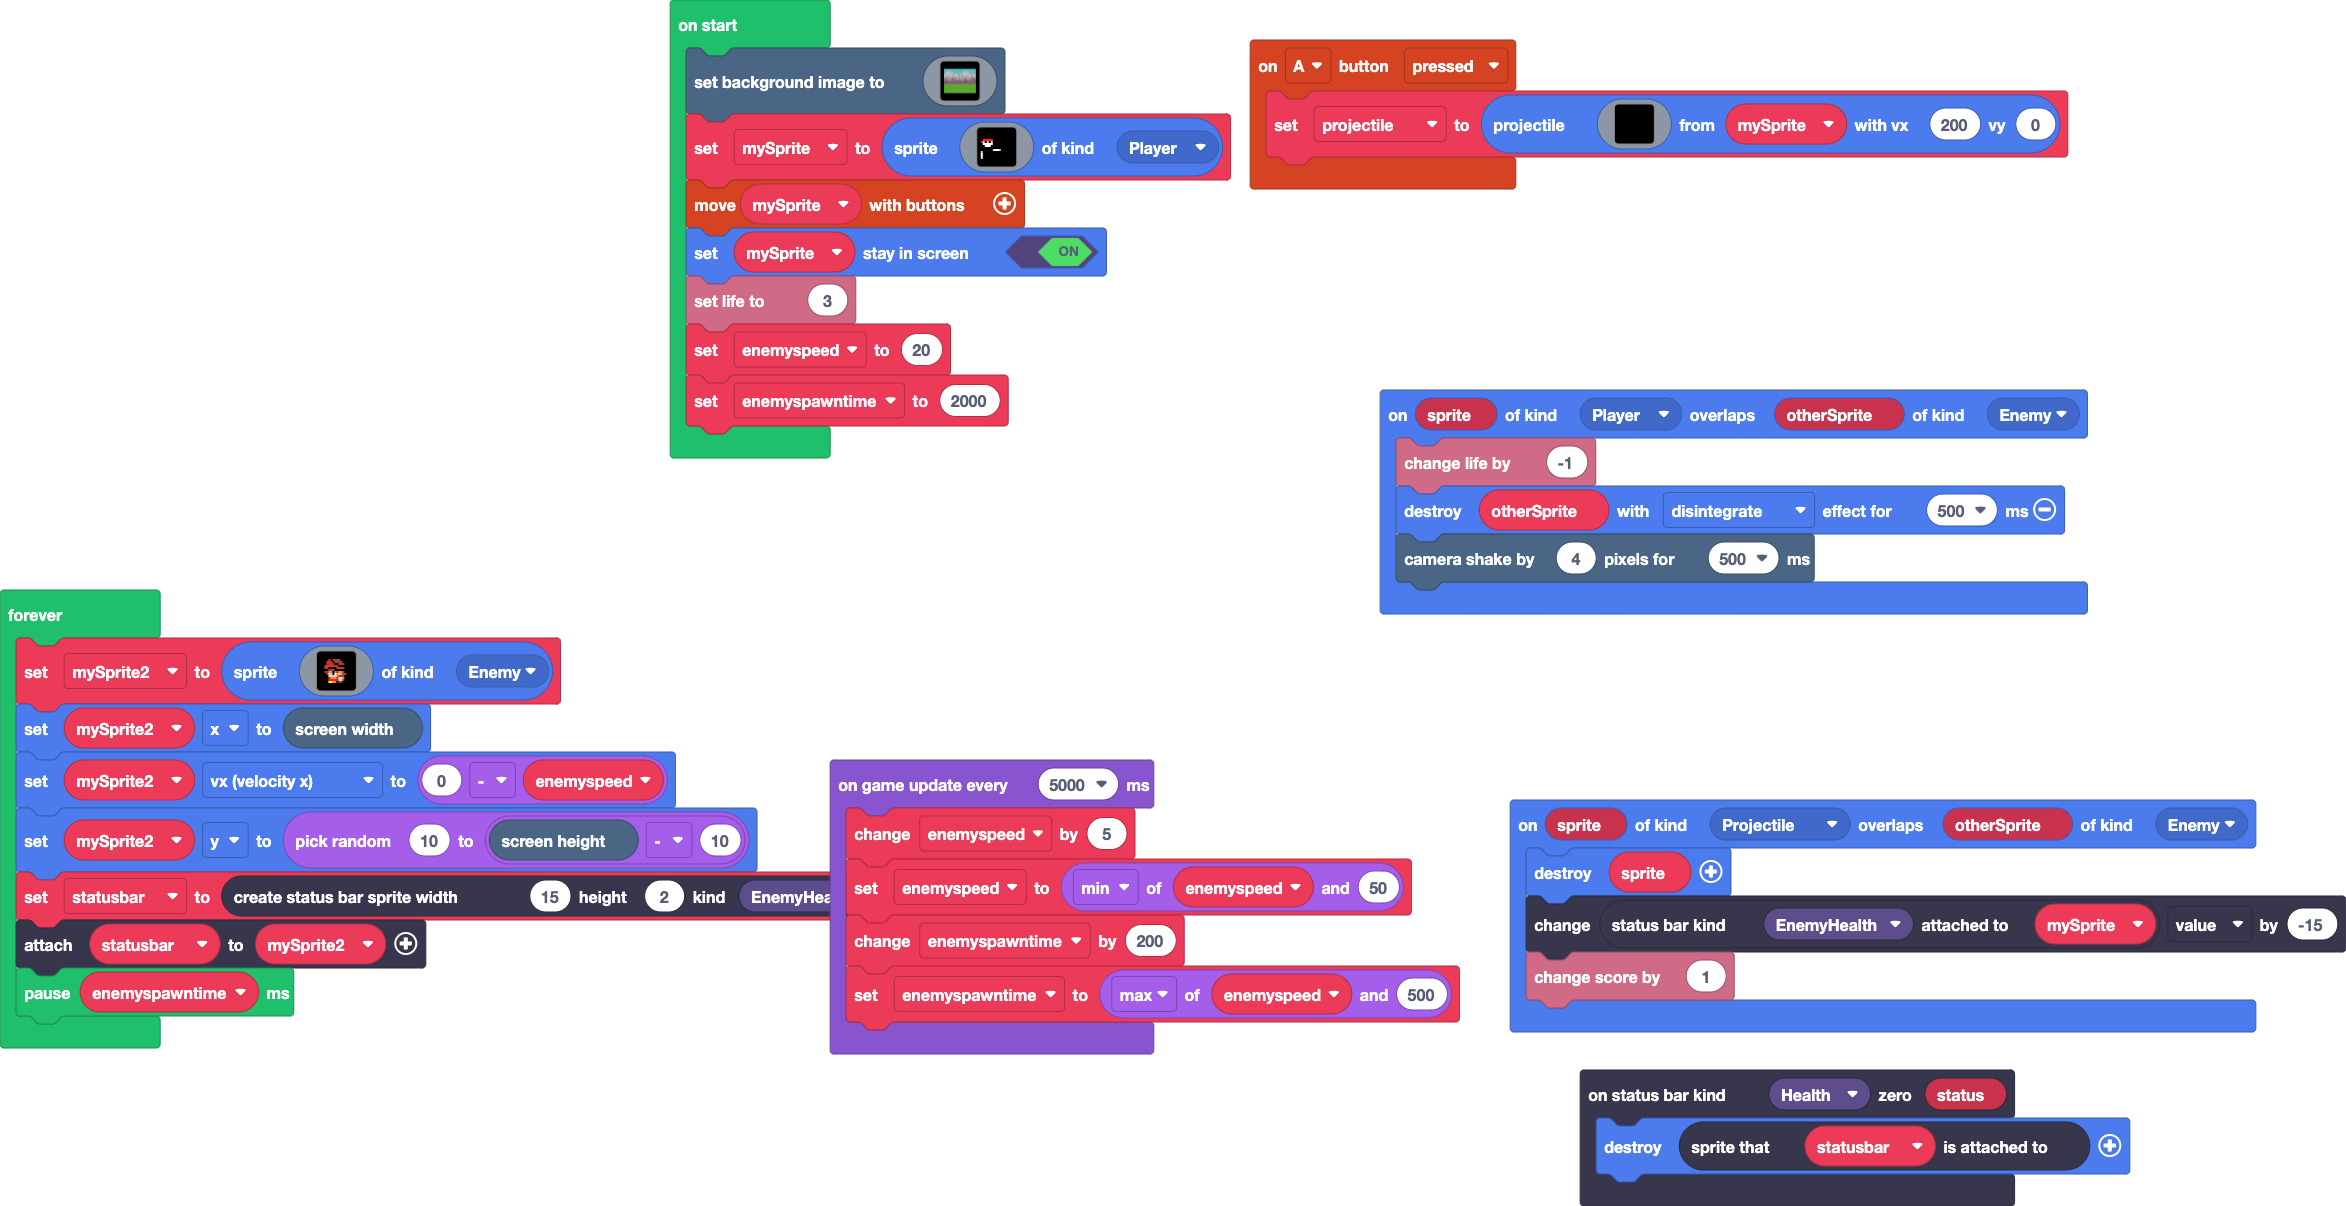
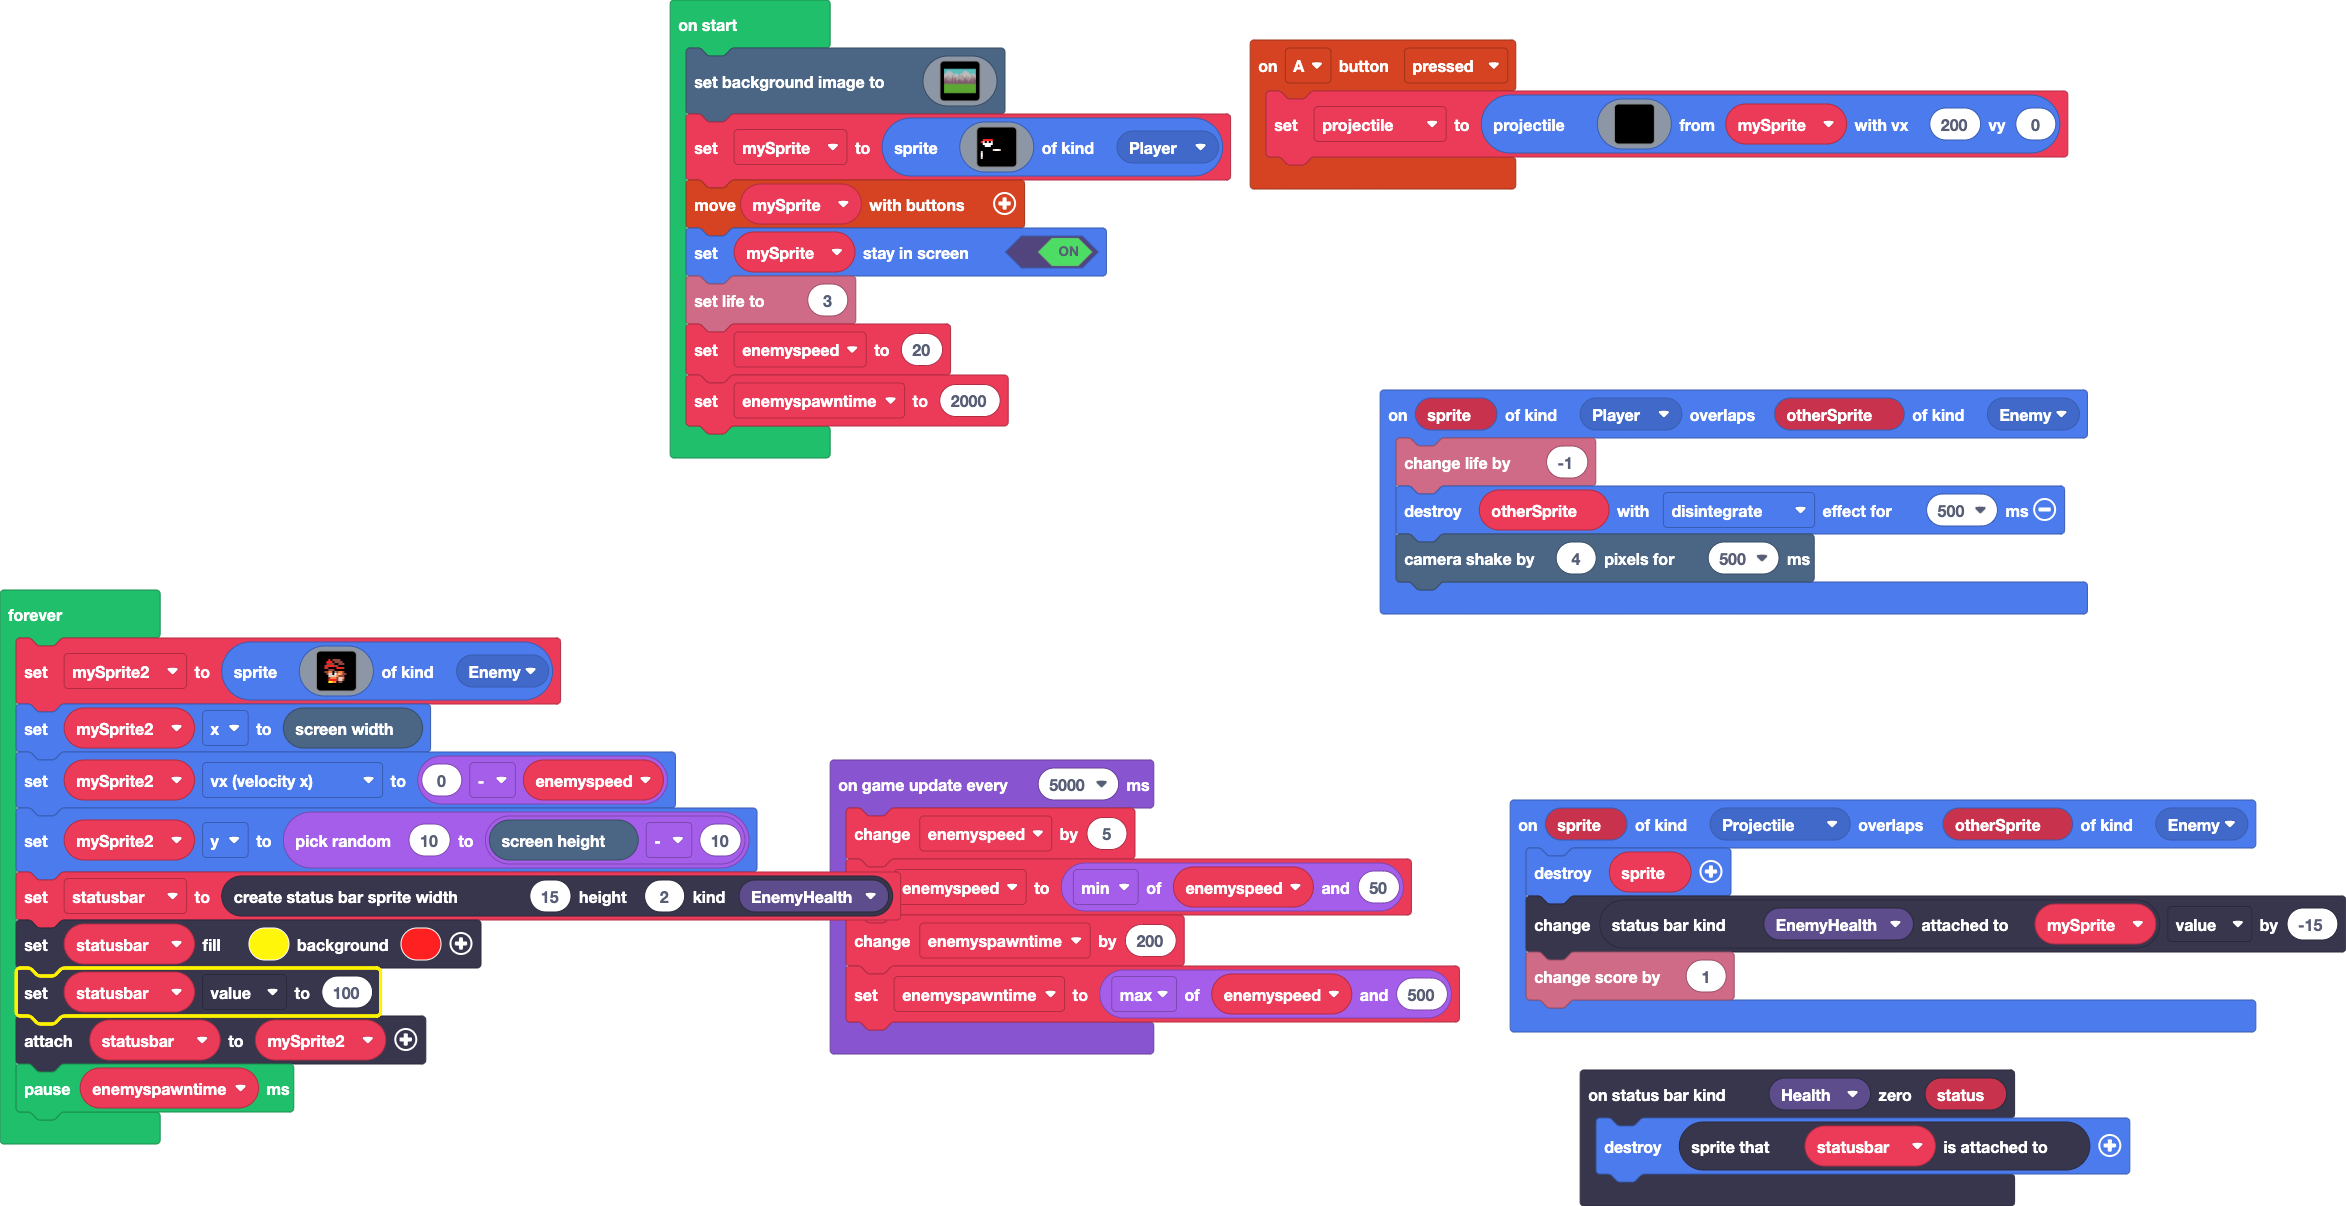
Update main.blocks, main.ts

Changed region(s): [[0.0, 0.767, 0.2178, 0.9511], [0.3423, 0.7056, 0.4045, 0.767]]

diff --git a/main.ts b/main.ts
@@ -209,7 +209,8 @@ forever(function () {
     mySprite2.vx = 0 - enemyspeed
     mySprite2.y = randint(10, scene.screenHeight() - 10)
     statusbar = statusbars.create(15, 2, StatusBarKind.EnemyHealth)
-    statusbar.setColor(8, 2)
+    statusbar.setColor(5, 2)
+    statusbar.value = 100
     statusbar.attachToSprite(mySprite2)
     pause(enemyspawntime)
 })
